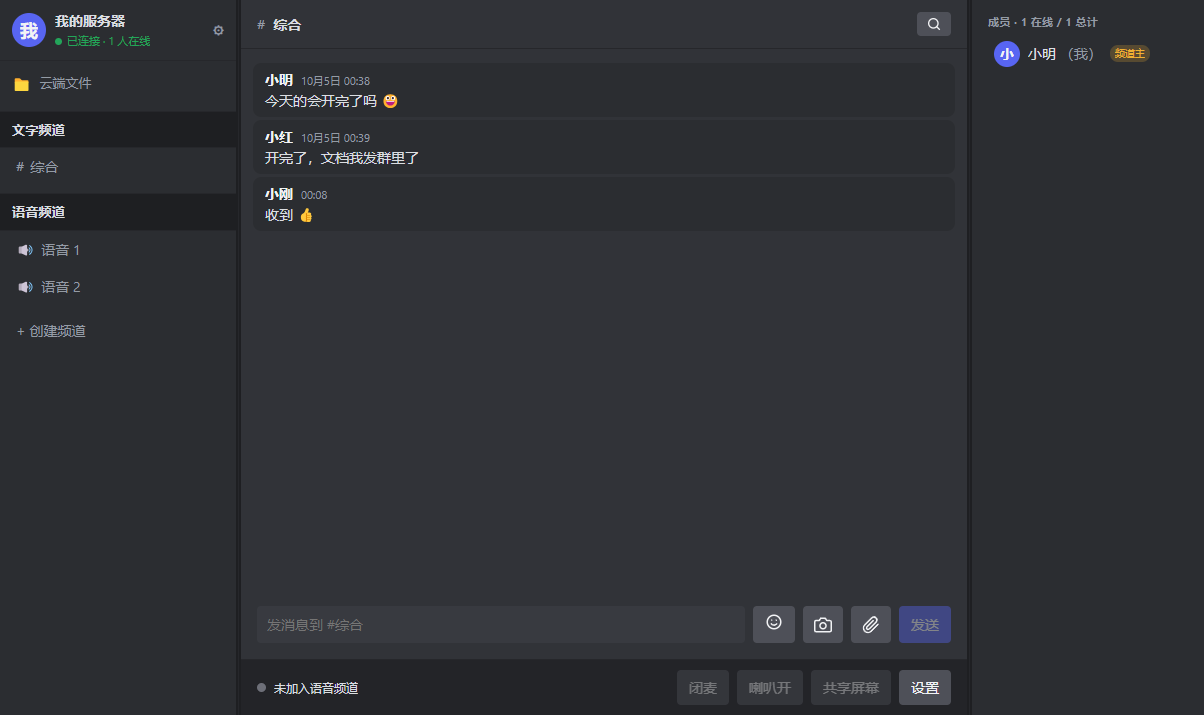
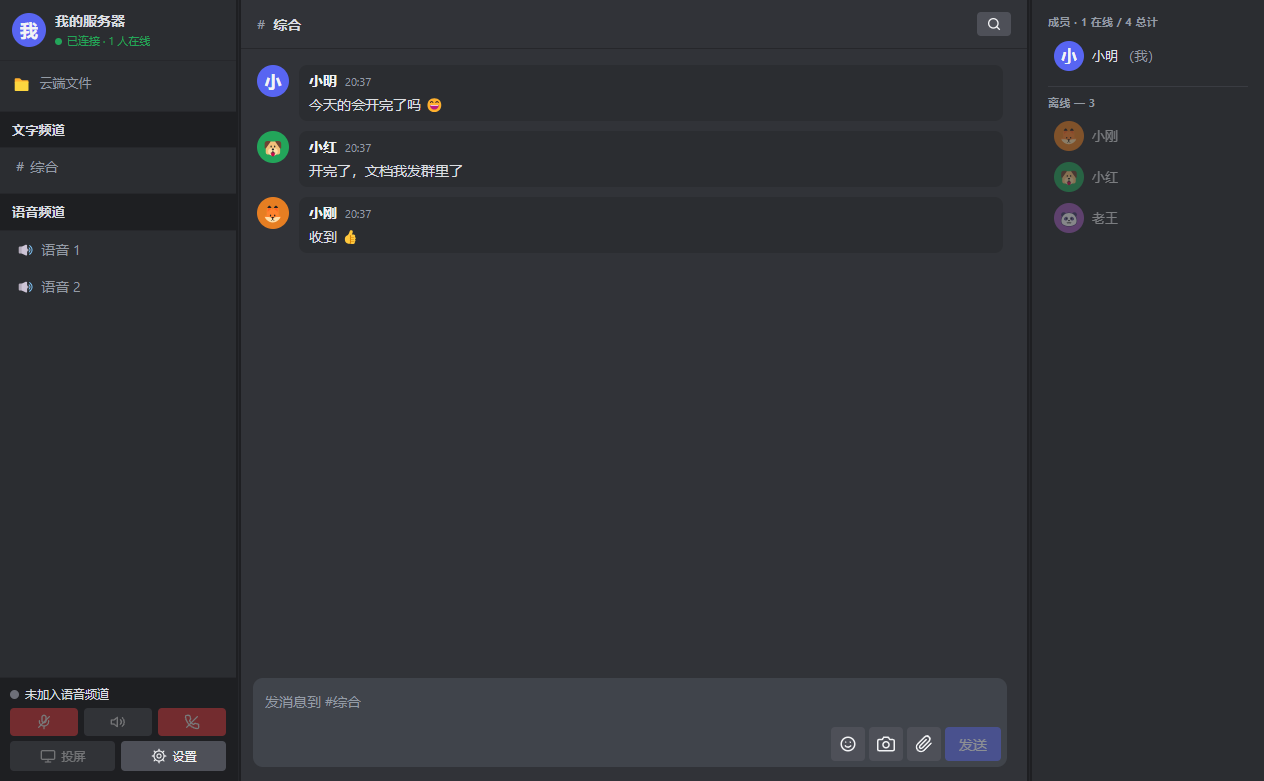
docs: retake the main screenshots (voice panel moved to the bottom-left) and fix stale details in the README

diff --git a/README.md b/README.md
@@ -14,7 +14,7 @@
 
 **它经过的验证** ✓
 
-- **203 条测试断言**，覆盖身份、权限、活动状态、文件、消息分组、投屏档位等 ✓
+- **200 多条测试断言**，覆盖身份、权限、活动状态、文件、消息分组、投屏档位等 ✓
 - **真的部署在一台云服务器上** ✓ **真的有一小圈人在日常用** ✓
 - 每一个 bug 的排查过程都记在 [`voice-client/CHANGELOG.md`](voice-client/CHANGELOG.md) 里 ✓
   （包括**判断错的方向**和**改错又改回来的地方** ✗）
@@ -45,7 +45,7 @@
 
 - **语音频道** —— 麦克风处理开关（降噪/回声消除/自动增益）· 独立音量 · 进出铃声
 - **文字频道 / 私聊** —— 附件、截图、云端文件、搜索
-- **投屏** —— 720p30 到 2K60 六档可调 · 独立音量 · 观看者头像
+- **投屏** —— 720p30 到 2K60 **七档**可调（含一档 2.5 Mbps 省流档，给 6 Mbps 出口的服务器用）· 独立音量 · 观看者头像
 - **状态** —— 「正在听」（Windows SMTC）·「正在玩」（进程 + 可共享的白名单）
 - **权限** —— 频道主 / 管理员 / 成员
 
@@ -55,7 +55,13 @@
 |---|---|
 | ![浅色主界面](voice-client/theme-preview/light-main.png) | ![深色主界面](voice-client/theme-preview/dark-main.png) |
 
-左边是频道列表（文字频道 / 语音频道 / 云端文件）· 中间是聊天 · 右边是成员列表 · 底部是语音状态栏。
+左边是频道列表（文字频道 / 语音频道 / 云端文件），**左下角是语音面板**
+（状态行 + 麦克风 / 喇叭 / 关喇叭 + 投屏 / 设置）。中间是聊天，右边是成员列表。
+
+> ⚠ **语音面板在左下角，不是横在底部** ✗
+> 它原来横跨整个中间区域，把聊天和投屏**各挤掉了一行** ✓
+> 挪进左栏之后，中间就只剩聊天和投屏这两件事了 ✓
+> （代码里 `App.tsx` 和 `styles.css` 都记了这段原因 ✓）
 
 **连续消息会合并成一个气泡** —— 头像和昵称只出现在第一条上。
 同一个人的消息只要间隔在 5 分钟内、中间没人插话，就算一组。
